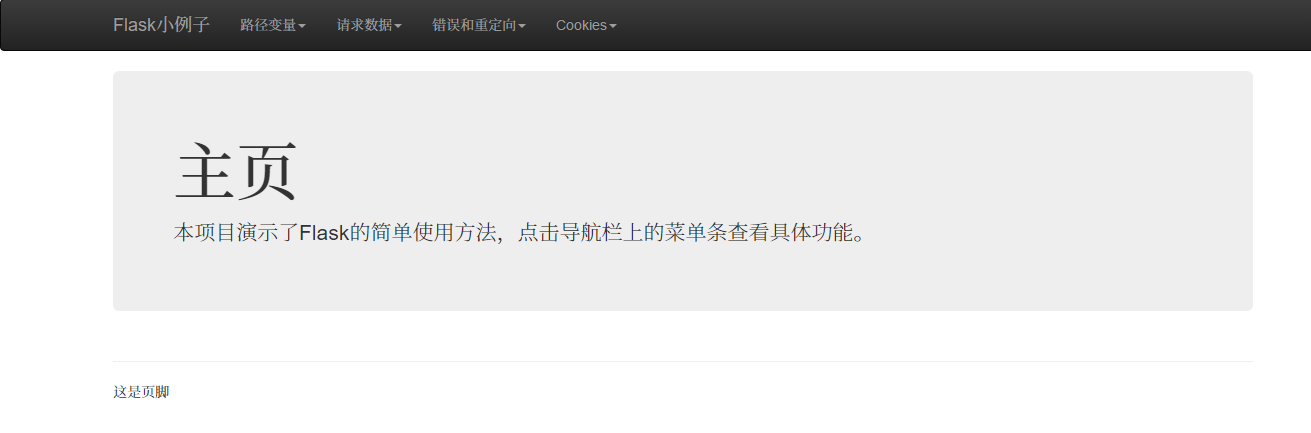
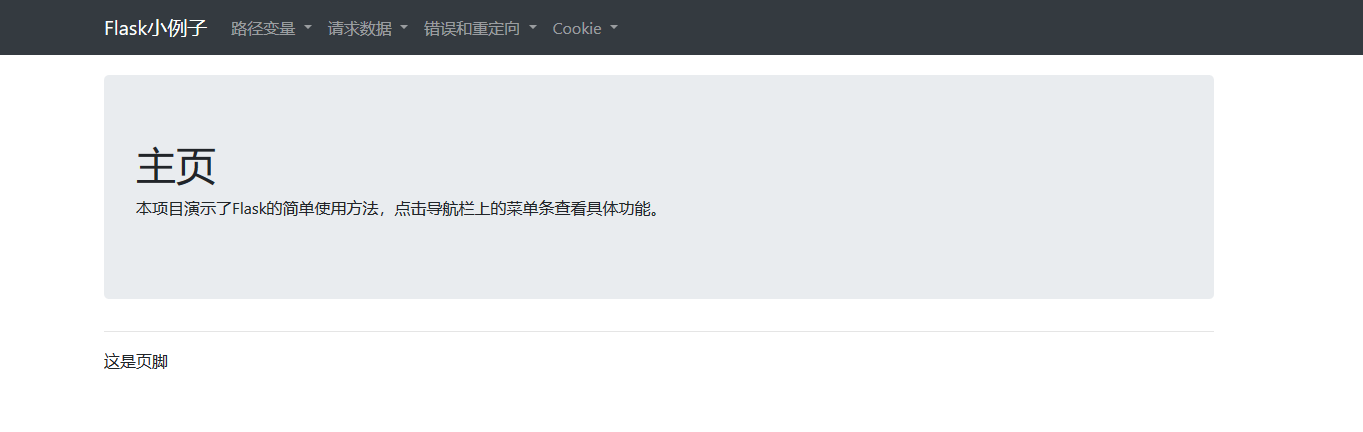
修改了导航栏样式并更新截图

Changed region(s): [[0.0, 0.0301, 1.0, 0.1505], [0.0915, 0.331, 0.6712, 0.5718], [0.061, 0.8125, 0.122, 0.9329]]

diff --git a/flask-sample/flask_sample/templates/layout.html b/flask-sample/flask_sample/templates/layout.html
@@ -10,55 +10,61 @@
 <body>
 
 <nav class="navbar navbar-expand-lg navbar-dark bg-dark">
-    <a class="navbar-brand" href="{{ url_for('index') }}">Flask小例子</a>
-    <button class="navbar-toggler" type="button" data-toggle="collapse" data-target="#navbarNavDropdown"
-            aria-controls="navbarNavDropdown" aria-expanded="false" aria-label="Toggle navigation">
-        <span class="navbar-toggler-icon"></span>
-    </button>
-    <div class="collapse navbar-collapse" id="navbarNavDropdown">
-        <ul class="navbar-nav">
-            <li class="nav-item dropdown">
-                <a class="nav-link dropdown-toggle" href="#" id="routeVariable" data-toggle="dropdown"
-                   aria-haspopup="true" aria-expanded="false">
-                    路径变量
-                </a>
-                <div class="dropdown-menu" aria-labelledby="routeVariable">
-                    <a class="dropdown-item" href="{{ url_for('greet', name='易天') }}">问候1</a>
-                    <a class="dropdown-item" href="{{ url_for('greet2', name='易天2') }}">问候2</a>
-                </div>
-            </li>
-            <li class="nav-item dropdown">
-                <a class="nav-link dropdown-toggle" href="#" id="requestData" data-toggle="dropdown"
-                   aria-haspopup="true" aria-expanded="false">
-                    请求数据
-                </a>
-                <div class="dropdown-menu" aria-labelledby="requestData">
-                    <a class="dropdown-item" href="{{ url_for('get_request_data',name='易天',age=25,gender='MALE') }}">获取参数</a>
-                    <a class="dropdown-item" href="{{ url_for('get_form') }}">表单提交</a>
-                </div>
-            </li>
-            <li class="nav-item dropdown">
-                <a class="nav-link dropdown-toggle" href="#" id="routeVariable" data-toggle="dropdown"
-                   aria-haspopup="true" aria-expanded="false">
-                    错误和重定向
-                </a>
-                <div class="dropdown-menu" aria-labelledby="routeVariable">
-                    <a class="dropdown-item" href="{{ url_for('static',filename='404') }}">404错误</a>
-                    <a class="dropdown-item" href="{{ url_for('redirect_to_index') }}">重定向到主页</a>
-                </div>
-            </li>
-            <li class="nav-item dropdown">
-                <a class="nav-link dropdown-toggle" href="#" id="routeVariable" data-toggle="dropdown"
-                   aria-haspopup="true" aria-expanded="false">
-                    Cookie
-                </a>
-                <div class="dropdown-menu" aria-labelledby="routeVariable">
-                    <a class="dropdown-item" href="{{ url_for('add_cookie') }}">添加cookie</a>
-                    <a class="dropdown-item" href="{{ url_for('show_cookies') }}">显示cookie</a>
-                </div>
-            </li>
-        </ul>
+
+    <div class="container">
+        <a class="navbar-brand" href="{{ url_for('index') }}">Flask小例子</a>
+
+        <button class="navbar-toggler" type="button" data-toggle="collapse" data-target="#navbarNavDropdown"
+                aria-controls="navbarNavDropdown" aria-expanded="false" aria-label="Toggle navigation">
+            <span class="navbar-toggler-icon"></span>
+        </button>
+        <div class="collapse navbar-collapse" id="navbarNavDropdown">
+            <ul class="navbar-nav">
+                <li class="nav-item dropdown">
+                    <a class="nav-link dropdown-toggle" href="#" id="routeVariable" data-toggle="dropdown"
+                       aria-haspopup="true" aria-expanded="false">
+                        路径变量
+                    </a>
+                    <div class="dropdown-menu" aria-labelledby="routeVariable">
+                        <a class="dropdown-item" href="{{ url_for('greet', name='易天') }}">问候1</a>
+                        <a class="dropdown-item" href="{{ url_for('greet2', name='易天2') }}">问候2</a>
+                    </div>
+                </li>
+                <li class="nav-item dropdown">
+                    <a class="nav-link dropdown-toggle" href="#" id="requestData" data-toggle="dropdown"
+                       aria-haspopup="true" aria-expanded="false">
+                        请求数据
+                    </a>
+                    <div class="dropdown-menu" aria-labelledby="requestData">
+                        <a class="dropdown-item"
+                           href="{{ url_for('get_request_data',name='易天',age=25,gender='MALE') }}">获取参数</a>
+                        <a class="dropdown-item" href="{{ url_for('get_form') }}">表单提交</a>
+                    </div>
+                </li>
+                <li class="nav-item dropdown">
+                    <a class="nav-link dropdown-toggle" href="#" id="routeVariable" data-toggle="dropdown"
+                       aria-haspopup="true" aria-expanded="false">
+                        错误和重定向
+                    </a>
+                    <div class="dropdown-menu" aria-labelledby="routeVariable">
+                        <a class="dropdown-item" href="{{ url_for('static',filename='404') }}">404错误</a>
+                        <a class="dropdown-item" href="{{ url_for('redirect_to_index') }}">重定向到主页</a>
+                    </div>
+                </li>
+                <li class="nav-item dropdown">
+                    <a class="nav-link dropdown-toggle" href="#" id="routeVariable" data-toggle="dropdown"
+                       aria-haspopup="true" aria-expanded="false">
+                        Cookie
+                    </a>
+                    <div class="dropdown-menu" aria-labelledby="routeVariable">
+                        <a class="dropdown-item" href="{{ url_for('add_cookie') }}">添加cookie</a>
+                        <a class="dropdown-item" href="{{ url_for('show_cookies') }}">显示cookie</a>
+                    </div>
+                </li>
+            </ul>
+        </div>
     </div>
+
 </nav>
 
 <main class="container" role="main">
